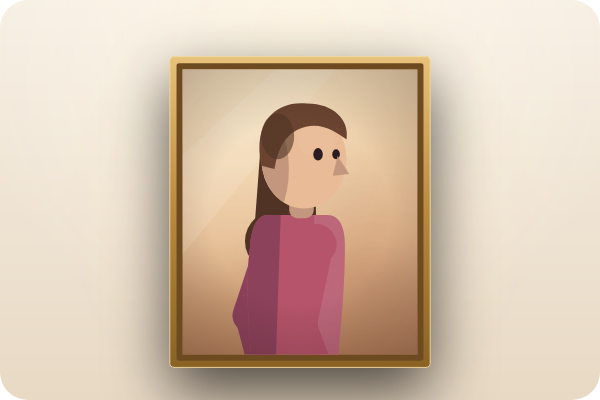
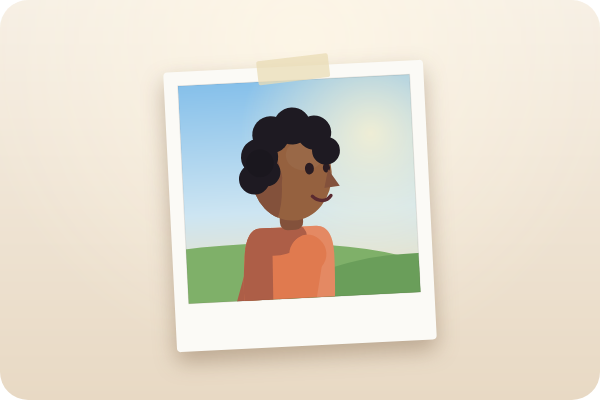
Ask about your best friend instead of your mom in the one-question test
The quiz page, the home page test, the link preview, the what-is FAQ and llms.txt
now say "Think about your best friend", and the first picture is a snapshot of a
smiling friend instead of a portrait of a mom.

diff --git a/quiz/index.html b/quiz/index.html
@@ -3,22 +3,22 @@
 <head>
 <meta charset="utf-8">
 <meta name="viewport" content="width=device-width, initial-scale=1, viewport-fit=cover">
-<meta name="description" content="Think about your mom. There are four ways people do it: a picture, her voice, just knowing, or a concept bubble. Can you do the fourth one?">
+<meta name="description" content="Think about your best friend. There are four ways people do it: a picture, their voice, just knowing, or a concept bubble. Can you do the fourth one?">
 <link rel="canonical" href="https://thoughtfeel.net/quiz/">
 <link rel="icon" href="/favicon.svg" type="image/svg+xml">
 <meta property="og:type" content="website">
 <meta property="og:site_name" content="thoughtfeel">
 <meta property="og:title" content="Do you have thoughtfeel? One question">
-<meta property="og:description" content="Think about your mom. There are four ways people do it: a picture, her voice, just knowing, or a concept bubble. Can you do the fourth one?">
+<meta property="og:description" content="Think about your best friend. There are four ways people do it: a picture, their voice, just knowing, or a concept bubble. Can you do the fourth one?">
 <meta property="og:url" content="https://thoughtfeel.net/quiz/">
-<meta property="og:image" content="https://thoughtfeel.net/og-quiz-mom.png">
+<meta property="og:image" content="https://thoughtfeel.net/og-quiz-friend.png">
 <meta property="og:image:width" content="1200">
 <meta property="og:image:height" content="630">
-<meta property="og:image:alt" content="Think about your mom. There are four ways people do it. Can you do the fourth one?">
+<meta property="og:image:alt" content="Think about your best friend. There are four ways people do it. Can you do the fourth one?">
 <meta name="twitter:card" content="summary_large_image">
 <meta name="twitter:title" content="Do you have thoughtfeel? One question">
-<meta name="twitter:description" content="Think about your mom. There are four ways people do it: a picture, her voice, just knowing, or a concept bubble. Can you do the fourth one?">
-<meta name="twitter:image" content="https://thoughtfeel.net/og-quiz-mom.png">
+<meta name="twitter:description" content="Think about your best friend. There are four ways people do it: a picture, their voice, just knowing, or a concept bubble. Can you do the fourth one?">
+<meta name="twitter:image" content="https://thoughtfeel.net/og-quiz-friend.png">
 <script>
 window.tfTrack = function (path, title) {
   try {
@@ -71,7 +71,7 @@ window.tfTrack = function (path, title) {
 <link rel="preconnect" href="https://fonts.gstatic.com" crossorigin>
 <link rel="stylesheet" href="https://fonts.googleapis.com/css2?family=IBM+Plex+Mono:wght@400;500&family=Literata:ital,opsz,wght@0,7..72,400;0,7..72,500;1,7..72,400&family=Schibsted+Grotesk:wght@500;700&display=swap">
 <style>
-  /* The one-question quiz (2026-10-27): the four ways to think about your mom, from the live lessons, replaces the
+  /* The one-question quiz (2026-10-27): the four ways to think about your best friend (your mom until 10/28), from the live lessons, replaces the
      ten-statement quiz v2 (archived). Same tokens as the home page (thoughtfeel-guide.html). */
   :root {
     --bg: #f0f2f5;
@@ -204,15 +204,15 @@ window.tfTrack = function (path, title) {
 
   <main class="card">
     <p class="eyebrow">The thoughtfeel quiz · one question</p>
-    <h1>Think about your mom.</h1>
+    <h1>Think about your best friend.</h1>
     <p class="lede">There are four ways people do it. Read all four, then answer one question.</p>
 
     <ol class="ways">
       <li class="way">
-        <img src="/img/quiz/picture.png" width="600" height="400" alt="A picture: a woman’s portrait in a gilt frame on a wall.">
+        <img src="/img/quiz/picture.png" width="600" height="400" alt="A picture: a snapshot of a smiling friend, taped to a wall.">
         <div class="text">
           <p class="num">1</p>
-          <h2>A picture of her</h2>
+          <h2>A picture of your friend</h2>
           <p>It has shape, size and color, and it feels like looking at something.</p>
         </div>
       </li>
@@ -220,8 +220,8 @@ window.tfTrack = function (path, title) {
         <img src="/img/quiz/voice.png" width="600" height="400" alt="A sound wave.">
         <div class="text">
           <p class="num">2</p>
-          <h2>Her voice</h2>
-          <p>You hear her voice in your head.</p>
+          <h2>Your friend’s voice</h2>
+          <p>You hear their voice in your head.</p>
         </div>
       </li>
       <li class="way">
@@ -229,15 +229,15 @@ window.tfTrack = function (path, title) {
         <div class="text">
           <p class="num">3</p>
           <h2>Just knowing</h2>
-          <p>You just know you’re thinking about her. To feel this one, stare at something near you and pay attention to its color. You still know you’re thinking about your mom.</p>
+          <p>You just know you’re thinking about your friend. To feel this one, stare at something near you and pay attention to its color. You still know you’re thinking about your best friend.</p>
         </div>
       </li>
       <li class="way way-4">
         <div class="words" aria-hidden="true">No shape.<br>No size.<br>No color.</div>
         <div class="text">
           <p class="num">4</p>
-          <h2>A concept bubble of her</h2>
-          <p>It feels like looking at something, but it has no shape, size or color, and it’s obviously your mom.</p>
+          <h2>A concept bubble of your friend</h2>
+          <p>It feels like looking at something, but it has no shape, size or color, and it’s obviously your best friend.</p>
         </div>
       </li>
     </ol>
@@ -313,7 +313,7 @@ window.tfTrack = function (path, title) {
 
   function share() {
     var url = 'https://thoughtfeel.net/quiz/', status = document.getElementById('share-status');
-    var text = 'Think about your mom. There are four ways people do it. Can you do the fourth one?';
+    var text = 'Think about your best friend. There are four ways people do it. Can you do the fourth one?';
     tfTrack('quiz3-share');
     if (navigator.share) { navigator.share({ title: 'Do you have thoughtfeel?', text: text, url: url }).catch(function () {}); return; }
     var done = function () { if (status) status.textContent = 'Link copied'; };

diff --git a/index.html b/index.html
@@ -784,13 +784,13 @@ window.tfTrack = function (path, title) {
       <div class="imt-card-body">
         <p class="eyebrow">The one-question test</p>
         <h2 id="test-title">Do you have it?</h2>
-        <p class="imt-intro">Think about your mom. There are four ways people do it. Read all four, then answer one question.</p>
+        <p class="imt-intro">Think about your best friend. There are four ways people do it. Read all four, then answer one question.</p>
         <div class="panel imt-panel" id="imt" aria-live="polite">
           <ol class="imt-ways">
-            <li><img src="/img/quiz/picture.png" width="600" height="400" alt=""><div><b>1 · A picture of her.</b> It has shape, size and color, and it feels like looking at something.</div></li>
-            <li><img src="/img/quiz/voice.png" width="600" height="400" alt=""><div><b>2 · Her voice.</b> You hear her voice in your head.</div></li>
-            <li><img src="/img/quiz/knowing.png" width="600" height="400" alt=""><div><b>3 · Just knowing.</b> You just know you’re thinking about her. To feel this one, stare at something near you and pay attention to its color. You still know you’re thinking about your mom.</div></li>
-            <li class="four"><span class="imt-words" aria-hidden="true">No shape.<br>No size.<br>No color.</span><div><b>4 · A concept bubble of her.</b> It feels like looking at something, but it has no shape, size or color, and it’s obviously your mom.</div></li>
+            <li><img src="/img/quiz/picture.png" width="600" height="400" alt=""><div><b>1 · A picture of your friend.</b> It has shape, size and color, and it feels like looking at something.</div></li>
+            <li><img src="/img/quiz/voice.png" width="600" height="400" alt=""><div><b>2 · Your friend’s voice.</b> You hear their voice in your head.</div></li>
+            <li><img src="/img/quiz/knowing.png" width="600" height="400" alt=""><div><b>3 · Just knowing.</b> You just know you’re thinking about your friend. To feel this one, stare at something near you and pay attention to its color. You still know you’re thinking about your best friend.</div></li>
+            <li class="four"><span class="imt-words" aria-hidden="true">No shape.<br>No size.<br>No color.</span><div><b>4 · A concept bubble of your friend.</b> It feels like looking at something, but it has no shape, size or color, and it’s obviously your best friend.</div></li>
           </ol>
           <div id="imt-ask">
             <p class="imt-q">Can you do the fourth one?</p>
@@ -1109,7 +1109,7 @@ window.tfTrack = function (path, title) {
   if (document.fonts && document.fonts.ready) document.fonts.ready.then(schedule);
   schedule();
 
-  /* ---------- The test: the four ways to think about your mom; can you do the fourth? ---------- */
+  /* ---------- The test: the four ways to think about your best friend; can you do the fourth? ---------- */
   // Since 2026-10-27 the test is the question from the live lessons (it replaced the four-step "surprise party"
   // test, and the quiz at /quiz/ asks the same). The answer goes along with an email signup (as test_result and
   // test_answers), so each signup says whether the person has thoughtfeel.
@@ -1149,7 +1149,7 @@ window.tfTrack = function (path, title) {
     }
 
     function share(button) {
-      var text = 'Think about your mom. There are four ways people do it. Can you do the fourth one?';
+      var text = 'Think about your best friend. There are four ways people do it. Can you do the fourth one?';
       var done = function () { button.textContent = 'Link copied'; setTimeout(function () { button.textContent = 'Ask a friend'; }, 1800); };
       if (navigator.share) { navigator.share({ title: 'Do you have thoughtfeel?', text: text, url: SHARE_URL }).catch(function () {}); return; }
       var fallback = function () {

diff --git a/quiz/v2/index.html b/quiz/v2/index.html
@@ -3,22 +3,22 @@
 <head>
 <meta charset="utf-8">
 <meta name="viewport" content="width=device-width, initial-scale=1, viewport-fit=cover">
-<meta name="description" content="Think about your mom. There are four ways people do it: a picture, her voice, just knowing, or a concept bubble. Can you do the fourth one?">
+<meta name="description" content="Think about your best friend. There are four ways people do it: a picture, their voice, just knowing, or a concept bubble. Can you do the fourth one?">
 <link rel="canonical" href="https://thoughtfeel.net/quiz/">
 <link rel="icon" href="/favicon.svg" type="image/svg+xml">
 <meta property="og:type" content="website">
 <meta property="og:site_name" content="thoughtfeel">
 <meta property="og:title" content="Do you have thoughtfeel? One question">
-<meta property="og:description" content="Think about your mom. There are four ways people do it: a picture, her voice, just knowing, or a concept bubble. Can you do the fourth one?">
+<meta property="og:description" content="Think about your best friend. There are four ways people do it: a picture, their voice, just knowing, or a concept bubble. Can you do the fourth one?">
 <meta property="og:url" content="https://thoughtfeel.net/quiz/">
-<meta property="og:image" content="https://thoughtfeel.net/og-quiz-mom.png">
+<meta property="og:image" content="https://thoughtfeel.net/og-quiz-friend.png">
 <meta property="og:image:width" content="1200">
 <meta property="og:image:height" content="630">
-<meta property="og:image:alt" content="Think about your mom. There are four ways people do it. Can you do the fourth one?">
+<meta property="og:image:alt" content="Think about your best friend. There are four ways people do it. Can you do the fourth one?">
 <meta name="twitter:card" content="summary_large_image">
 <meta name="twitter:title" content="Do you have thoughtfeel? One question">
-<meta name="twitter:description" content="Think about your mom. There are four ways people do it: a picture, her voice, just knowing, or a concept bubble. Can you do the fourth one?">
-<meta name="twitter:image" content="https://thoughtfeel.net/og-quiz-mom.png">
+<meta name="twitter:description" content="Think about your best friend. There are four ways people do it: a picture, their voice, just knowing, or a concept bubble. Can you do the fourth one?">
+<meta name="twitter:image" content="https://thoughtfeel.net/og-quiz-friend.png">
 
 </head>
 <body>
@@ -26,7 +26,7 @@
 <style>:root { color-scheme: light dark; } body { font-family: Georgia, serif; margin: 40px 20px; }</style>
 <script>
 // Quiz v2 (ten statements) was retired on 2026-10-27 for the one-question quiz at /quiz/ (the four ways to think
-// about your mom). Old links to /quiz/v2/ forward there. The ?ref= tag goes along, or, without one, the site the
+// about your best friend). Old links to /quiz/v2/ forward there. The ?ref= tag goes along, or, without one, the site the
 // visit came from, so GoatCounter still credits the link that brought them.
 (function () {
   var q = location.search;

diff --git a/what-is-thoughtfeel/index.html b/what-is-thoughtfeel/index.html
@@ -109,7 +109,7 @@ window.tfTrack = function (path, title) {
         { "@type": "Question", "name": "Is thoughtfeel a technique?",
           "acceptedAnswer": { "@type": "Answer", "text": "No. thoughtfeel is the sense. The lessons teach techniques that use it, the way the memory palace uses the mind’s eye." } },
         { "@type": "Question", "name": "How can I tell if I have thoughtfeel?",
-          "acceptedAnswer": { "@type": "Answer", "text": "Answer one question at https://thoughtfeel.net/quiz/: of the four ways to think about your mom (a picture, her voice, just knowing, or a concept bubble with no shape, size or color), can you do the fourth? If you can get a sense of what it asks, you have thoughtfeel." } }
+          "acceptedAnswer": { "@type": "Answer", "text": "Answer one question at https://thoughtfeel.net/quiz/: of the four ways to think about your best friend (a picture, their voice, just knowing, or a concept bubble with no shape, size or color), can you do the fourth? If you can get a sense of what it asks, you have thoughtfeel." } }
       ]
     }
   ]
